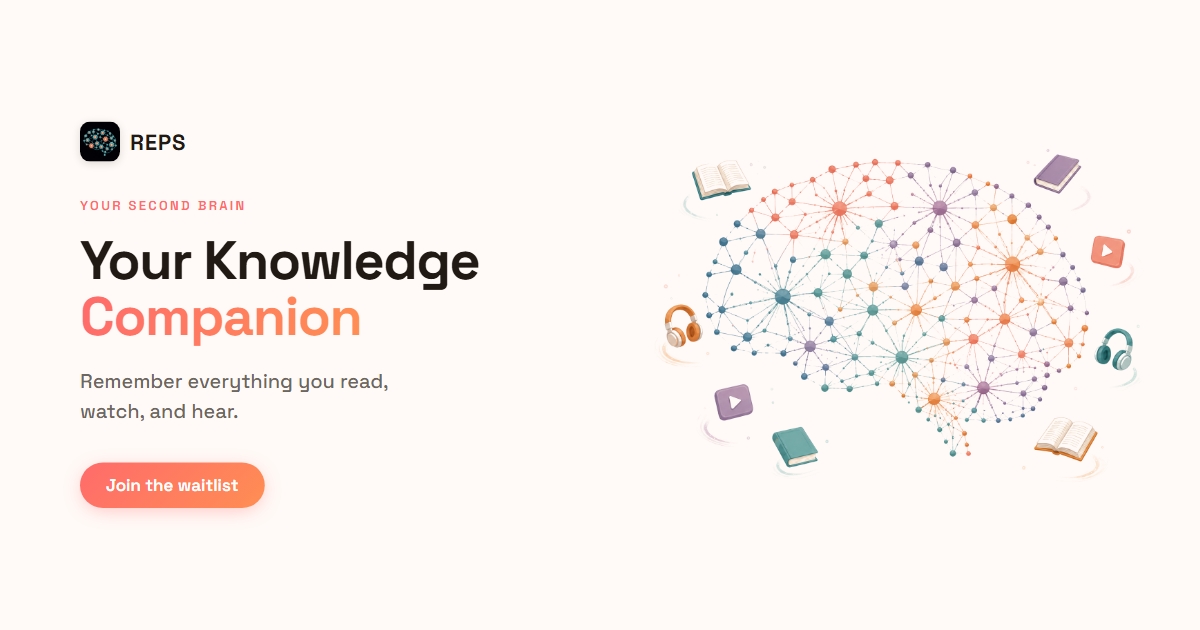
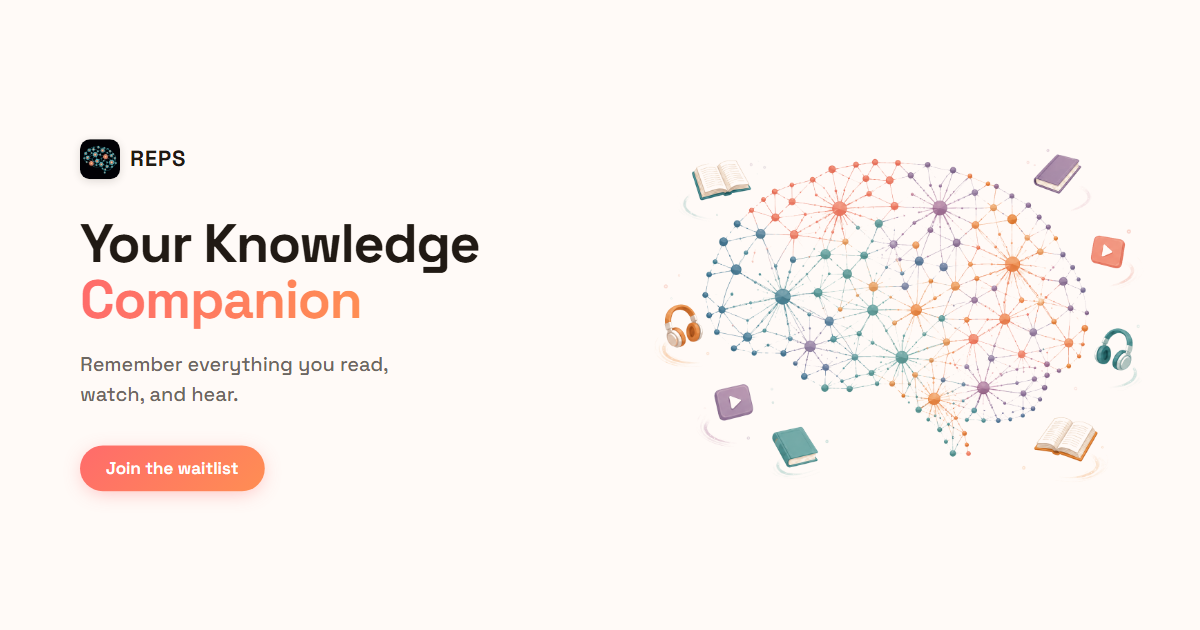
web: OG card - drop 'Your second brain' eyebrow (Mike's call)

Changed region(s): [[0.0617, 0.181, 0.4008, 0.5429], [0.0617, 0.573, 0.3392, 0.6635], [0.0617, 0.6937, 0.2467, 0.8143]]

diff --git a/og-card-v3-gen.html b/og-card-v3-gen.html
@@ -47,14 +47,6 @@
         letter-spacing: 0.04em;
         color: #211a14;
       }
-      .eyebrow {
-        font-size: 13px;
-        font-weight: 600;
-        letter-spacing: 0.18em;
-        text-transform: uppercase;
-        color: #ff6b6b;
-        margin-bottom: 18px;
-      }
       h1 {
         font-weight: 700;
         font-size: 54px;
@@ -111,7 +103,6 @@
         <img src="product/assets/app-icon.png" alt="REPS" />
         <span class="logo-text">REPS</span>
       </div>
-      <div class="eyebrow">Your second brain</div>
       <h1>Your Knowledge <span class="grad">Companion</span></h1>
       <p class="sub">Remember everything you read,<br />watch, and hear.</p>
       <div class="badge">Join the waitlist</div>
